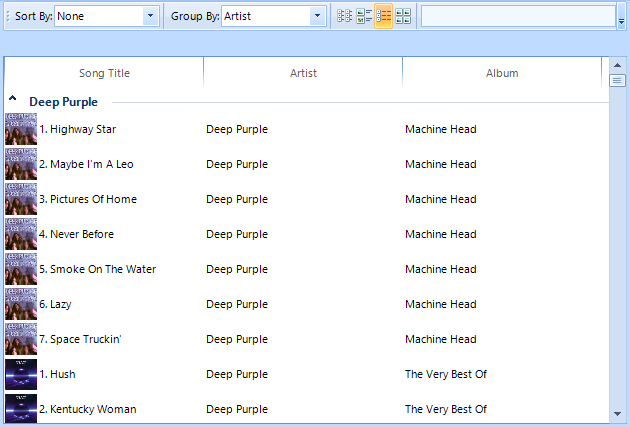
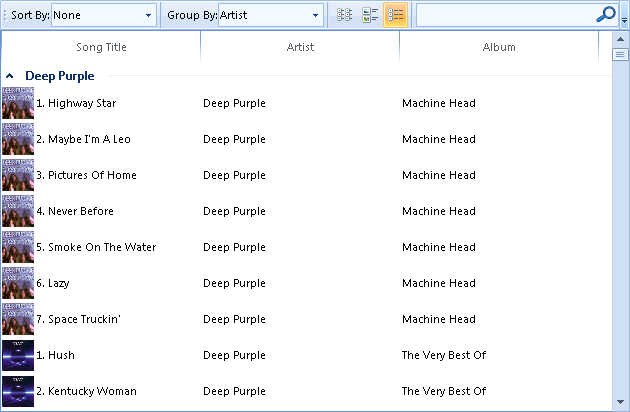
Reverted ListView articles changes

diff --git a/listview/getting-started.md b/listview/getting-started.md
@@ -31,7 +31,6 @@ First let’s create a form with [RadCommandBar]({%slug winforms/commandbar%}) d
 | __CommandBarToggleButton__ |<ul><li>Name: commandBarToggleButtonList</li><li>ToolTipText: “ListView”</li><li>Image: Some image representing ListView</li></ul>|
 | __CommandBarToggleButton__ |<ul><li>Name: commandBarToggleButtonTiles</li><li>ToolTipText: “IconsView”</li><li>Image: Some image representing IconsView</li></ul>|
 | __CommandBarToggleButton__ |<ul><li>Name: commandBarToggleButtonDetails</li><li>ToolTipText: “DetailsView”</li><li>Image: Some image representing DetailsView</li></ul>|
-| __CommandBarToggleButton__ |<ul><li>Name: commandBarToggleButtonCard</li><li>ToolTipText: "CardView”</li><li>Image: Some image representing DetailsView</li></ul>|
 | __CommandBarSeparatorItem__ ||
 | __CommandBarTextBox__ |<ul><li>Name: commandBarTextBoxFilter</li><li>Text: “”</li></ul>|
 
@@ -50,7 +49,6 @@ this.radListView1.VisualItemFormatting += new Telerik.WinControls.UI.ListViewVis
 this.radListView1.CellFormatting += new Telerik.WinControls.UI.ListViewCellFormattingEventHandler(radListView1_CellFormatting);
 this.radListView1.ColumnCreating += new ListViewColumnCreatingEventHandler(radListView1_ColumnCreating);
 this.radListView1.ViewTypeChanged += new EventHandler(radListView1_ViewTypeChanged);
-this.radListView1.CardViewItemFormatting += new ListViewCardItemFormattingEventHandler(radListView1_CardViewItemFormatting);
 this.radListView1.AllowEdit = false;
 this.radListView1.AllowRemove = false;
 this.radListView1.DataSource = this.songsDataTableBindingSource;
@@ -65,7 +63,6 @@ AddHandler Me.RadListView1.VisualItemFormatting, AddressOf radListView1_VisualIt
 AddHandler Me.RadListView1.ViewTypeChanged, AddressOf radListView1_ViewTypeChanged
 AddHandler Me.RadListView1.CellFormatting, AddressOf radListView1_CellFormatting
 AddHandler Me.RadListView1.ColumnCreating, AddressOf radListView1_ColumnCreating
-AddHandler Me.RadListView1.CardViewItemFormatting, AddressOf radListView1_CardViewItemFormatting
 Me.RadListView1.AllowEdit = False
 Me.RadListView1.AllowRemove = False
 Me.RadListView1.DataSource = Me.SongsDataTableBindingSource
@@ -146,7 +143,7 @@ End Sub
 
 {{endregion}} 
 
-The __CellFormatting__ event is handled in order to customize the appearance of the cells, when __RadListView__ is in __DetailsView__. Here we will set the cell image. When the __ViewType__ is set to *CardView* we would need to handle the __CardViewItemFormatting__ event.
+The __CellFormatting__ event is handled in order to customize the appearance of the cells, when RadListView is in __DetailsView__. Here we will set the cell image.
 
 #### Set the cell image
 
@@ -161,35 +158,12 @@ void radListView1_CellFormatting(object sender, ListViewCellFormattingEventArgs 
         e.CellElement.Image = e.CellElement.Image.GetThumbnailImage(32, 32, null, IntPtr.Zero);
     }
 }
-void radListView1_CardViewItemFormatting(object sender, ListViewCardItemFormattingEventArgs e)
-{
-    CardViewItem imageItem = e.Item as CardViewItem;
-    if (imageItem == null || imageItem.Column == null)
-    {
-        return;
-    }
-    if (imageItem.Column.Name == "Image")
-    {
-        imageItem.EditorItem.DrawText = false;
-        imageItem.EditorItem.Image = e.VisualItem.Data.Image.GetThumbnailImage(64, 64, null, IntPtr.Zero);
-    }
-}
 
 ````
 ````VB.NET
 Private Sub radListView1_CellFormatting(sender As Object, e As ListViewCellFormattingEventArgs)
     If e.CellElement.Image IsNot Nothing Then
         e.CellElement.Image = e.CellElement.Image.GetThumbnailImage(32, 32, Nothing, IntPtr.Zero)
-    End If
-End Sub
-Private Sub radListView1_CardViewItemFormatting(sender As Object, e As ListViewCardItemFormattingEventArgs)
-    Dim imageItem = TryCast(e.Item, CardViewItem)
-    If imageItem Is Nothing OrElse imageItem.Column Is Nothing Then
-        Return
-    End If
-    If imageItem.Column.Name = "Image" Then
-        imageItem.EditorItem.DrawText = False
-        imageItem.EditorItem.Image = e.VisualItem.Data.Image.GetThumbnailImage(64, 64, Nothing, IntPtr.Zero)
     End If
 End Sub
 
@@ -251,13 +225,11 @@ End Sub
 
 The last event of RadListView, which we are going to handle is the ViewTypeChanged event - fired when the ViewType of the control is changed. This event is convenient to set view specific settings. To handle the event, we will create three helper methods:
 
-* __SetupDetailsView__: Here we will set the __AllowArbitraryItemHeight__,  property to *true*, in order to allow the items to size themselves in height, according to their content.
+* __SetupDetailsView__ - here we will set the __AllowArbitraryItemHeight__,  property to *true*, in order to allow the items to size themselves in height, according to their content.
 
-* __SetupIconsView__: Here we will define a custom size for the items, set some spacing between the items and again set the __AllowArbitraryItemHeight__, property to *true*
+* __SetupIconsView__ - here we will define a custom size for the items, set some spacing between the items and again set the __AllowArbitraryItemHeight__, property to *true*
 
-* __SetupSimpleListView__: In this method we will only set the __AllowArbitraryItemHeight__, property to *true*.
-
-* __SetupCardView__: In this method we will rebind the control and define a proper __ItemSize__.
+* __SetupSimpleListView__ - in this method we will only set the __AllowArbitraryItemHeight__, property to *true*.
 
 In the ViewTypeChanged event handler, we will simply check which is the new view and call the corresponding setup method.
 
@@ -281,14 +253,6 @@ private void SetupSimpleListView()
 {
     this.radListView1.AllowArbitraryItemHeight = true;
 }
-private void SetupCardView()
-{
-    this.radListView1.ItemSize = new Size(200, 300);
-    this.radListView1.DataSource = null;
-    this.radListView1.DataSource = this.songsDataTableBindingSource;
-    this.radListView1.DisplayMember = "SongName";
-    this.radListView1.ValueMember = "SongID";
-}
 void radListView1_ViewTypeChanged(object sender, EventArgs e)
 {
     switch (radListView1.ViewType)
@@ -301,9 +265,6 @@ void radListView1_ViewTypeChanged(object sender, EventArgs e)
             break;
         case ListViewType.DetailsView:
             SetupDetailsView();
-            break;
-        case ListViewType.CardView:
-            SetupCardView();
             break;
     }
 }
@@ -321,13 +282,6 @@ End Sub
 Private Sub SetupSimpleListView()
     Me.RadListView1.AllowArbitraryItemHeight = True
 End Sub
-Private Sub SetupCardView()
-    Me.RadListView1.ItemSize = New Size(200, 300)
-    Me.RadListView1.DataSource = Nothing
-    Me.RadListView1.DataSource = Me.SongsDataTableBindingSource
-    Me.RadListView1.DisplayMember = "SongName"
-    Me.RadListView1.ValueMember = "SongID"
-End Sub
 Private Sub radListView1_ViewTypeChanged(sender As Object, e As EventArgs)
     Select Case RadListView1.ViewType
         Case ListViewType.ListView
@@ -339,17 +293,17 @@ Private Sub radListView1_ViewTypeChanged(sender As Object, e As EventArgs)
         Case ListViewType.DetailsView
             SetupDetailsView()
             Exit Select
-        Case ListViewType.CardView
-            SetupCardView()
-            Exit Select
     End Select
 End Sub
 
 ````
 
-{{endregion}}
+{{endregion}} 
 
-Now we only need to fill up the __RadCommandBar__ elements functionality.  First we are going to handle the view changing buttons. For this purpose, subscribe for the __ToggleStateChanged__ and __ToggleStateChanging__ events of all the __CommandBarToggleButtons__ that we have added earlier. In the ToggleStateChanged event handler, check which is the clicked button, and set the rest of the buttons to *Off*. Additionally, set the __RadListView__ __ViewType__ according to the pressed button.
+
+
+
+Now we only need to fill up the __RadCommandBar__ elements functionality.  First we are going to handle the view changing buttons. For this purpose, subscribe for the __ToggleStateChanged__ and __ToggleStateChanging__ events of all the __CommandBarToggleButtons__ that we have added earlier. In the ToggleStateChanged event handler, check which is the clicked button, and set the rest of the buttons to *Off*. Additionally, set the __RadListView____ViewType__ according to the pressed button.
 
 #### Handle the toggle buttons
 
@@ -377,10 +331,6 @@ private void ViewToggleButton_ToggleStateChanged(object sender, StateChangedEven
     {
         this.commandBarToggleButtonTiles.ToggleState = ToggleState.Off;
     }
-    if (this.commandBarToggleButtonCard != sender)
-    {
-        this.commandBarToggleButtonCard.ToggleState = ToggleState.Off;
-    }
     this.updatingToggleState = false;
     if (this.commandBarToggleButtonDetails.ToggleState == ToggleState.On)
     {
@@ -394,11 +344,7 @@ private void ViewToggleButton_ToggleStateChanged(object sender, StateChangedEven
     {
         this.radListView1.ViewType = ListViewType.IconsView;
     }
-    if (this.commandBarToggleButtonCard.ToggleState == ToggleState.On)
-    {
-        this.radListView1.ViewType = ListViewType.CardView;
-    }
-}
+ }
 private void ViewToggleButton_ToggleStateChanging(object sender, StateChangingEventArgs args)
 {
     if (!updatingToggleState && args.OldValue == ToggleState.On)
@@ -410,7 +356,7 @@ private void ViewToggleButton_ToggleStateChanging(object sender, StateChangingEv
 ````
 ````VB.NET
 Private updatingToggleState As Boolean = False
-Private Sub ViewToggleButton_ToggleStateChanged(sender As Object, args As StateChangedEventArgs) Handles commandBarToggleButtonTiles.ToggleStateChanged, commandBarToggleButtonList.ToggleStateChanged, commandBarToggleButtonDetails.ToggleStateChanged, CommandBarToggleButtonCard.ToggleStateChanged
+Private Sub ViewToggleButton_ToggleStateChanged(sender As Object, args As StateChangedEventArgs) Handles commandBarToggleButtonTiles.ToggleStateChanged, commandBarToggleButtonList.ToggleStateChanged, commandBarToggleButtonDetails.ToggleStateChanged
     If updatingToggleState Then
         Return
     End If
@@ -424,9 +370,6 @@ Private Sub ViewToggleButton_ToggleStateChanged(sender As Object, args As StateC
     If Me.commandBarToggleButtonTiles IsNot sender Then
         Me.commandBarToggleButtonTiles.ToggleState = ToggleState.Off
     End If
-    If Me.CommandBarToggleButtonCard IsNot sender Then
-        Me.CommandBarToggleButtonCard.ToggleState = ToggleState.Off
-    End If
     Me.updatingToggleState = False
     If Me.commandBarToggleButtonDetails.ToggleState = ToggleState.[On] Then
         Me.RadListView1.ViewType = ListViewType.DetailsView
@@ -436,9 +379,6 @@ Private Sub ViewToggleButton_ToggleStateChanged(sender As Object, args As StateC
     End If
     If Me.commandBarToggleButtonTiles.ToggleState = ToggleState.[On] Then
         Me.RadListView1.ViewType = ListViewType.IconsView
-    End If
-    If Me.CommandBarToggleButtonCard.ToggleState = ToggleState.[On] Then
-        Me.RadListView1.ViewType = ListViewType.CardView
     End If
 End Sub
 Private Sub ViewToggleButton_ToggleStateChanging(sender As Object, args As StateChangingEventArgs) Handles commandBarToggleButtonTiles.ToggleStateChanging, commandBarToggleButtonList.ToggleStateChanging, commandBarToggleButtonDetails.ToggleStateChanging
@@ -454,7 +394,7 @@ End Sub
 
 
 
-Next, subscribe to the __SelectedIndexChanged__ event of *commandBarDropDownSort* __CommandBarDropDownList__. In the event handler, we are going to add the desired __SortDescriptors__, according to the selected item in the drop down.
+Next, subscribe to the __SelectedIndexChanged__ event of *commandBarDropDownSort*__CommandBarDropDownList__. In the event handler, we are going to add the desired __SortDescriptors__, according to the selected item in the drop down.
 
 #### Handle sorting functionality
 
@@ -562,9 +502,12 @@ End Sub
 
 ````
 
-{{endregion}}
+{{endregion}} 
 
-Lastly, lets subscribe ot the __TextChanged__ event of *commandBarTextBoxFilter* __CommandBarTextBox__. Here we will  add __FilterDescriptor__ according to the text entered in the text box:
+
+
+
+Lastly, lets subscribe ot the __TextChanged__ event of *commandBarTextBoxFilter*__CommandBarTextBox__. Here we will  add __FilterDescriptor__ according to the text entered in the text box:
 
 #### Handle filtering functionality
 

diff --git a/listview/views.md b/listview/views.md
@@ -34,20 +34,3 @@ The __IconView__ displays the list items in icons, a manner that you surely are 
 The __DetailView__ provides a grid-like interface for displaying items with more than one data fields. Interesting features in this view are the options to resize columns (__AllowColumnResize__), to reorder columns  (__AllowColumnReorder__), set the columns sizes and to determine which columns will be visible and which aren’t.
 
 ![listview-views 003](images/listview-views003.png)
-
-## CardView
-
-The __CardView__ arranges its data objects in separate card elements. The __CardListViewElement__ hosts a [RadLayoutContol]({%slug winforms/layoutcontrol%}) allowing modifications of the layout at design-time as well as at run-time.
-
-![listview-views 004](images/listview-views004.png)
-
-The __CardListViewElement__ extends the __IconListViewElement__ class and adds to it a specific functionality related to the *card* layout. Below are some of the more important properties and methods specific to the __CardView__. 
-
-* CardListViewElement.CardTemplate: This property exposes the __RadLayoutControl__.
-* CardListViewElement.SaveCardTemplateLayout: This method saves the layout.
-* CardListViewElement.LoadCardTemplateLayout: Loads a previously saved layout. 
-
-The layout changes are performed thanks to the __Customize Dialog__.
->caption Fig.1 Customize Dialog
-
-![listview-views 005](images/listview-views005.gif)
